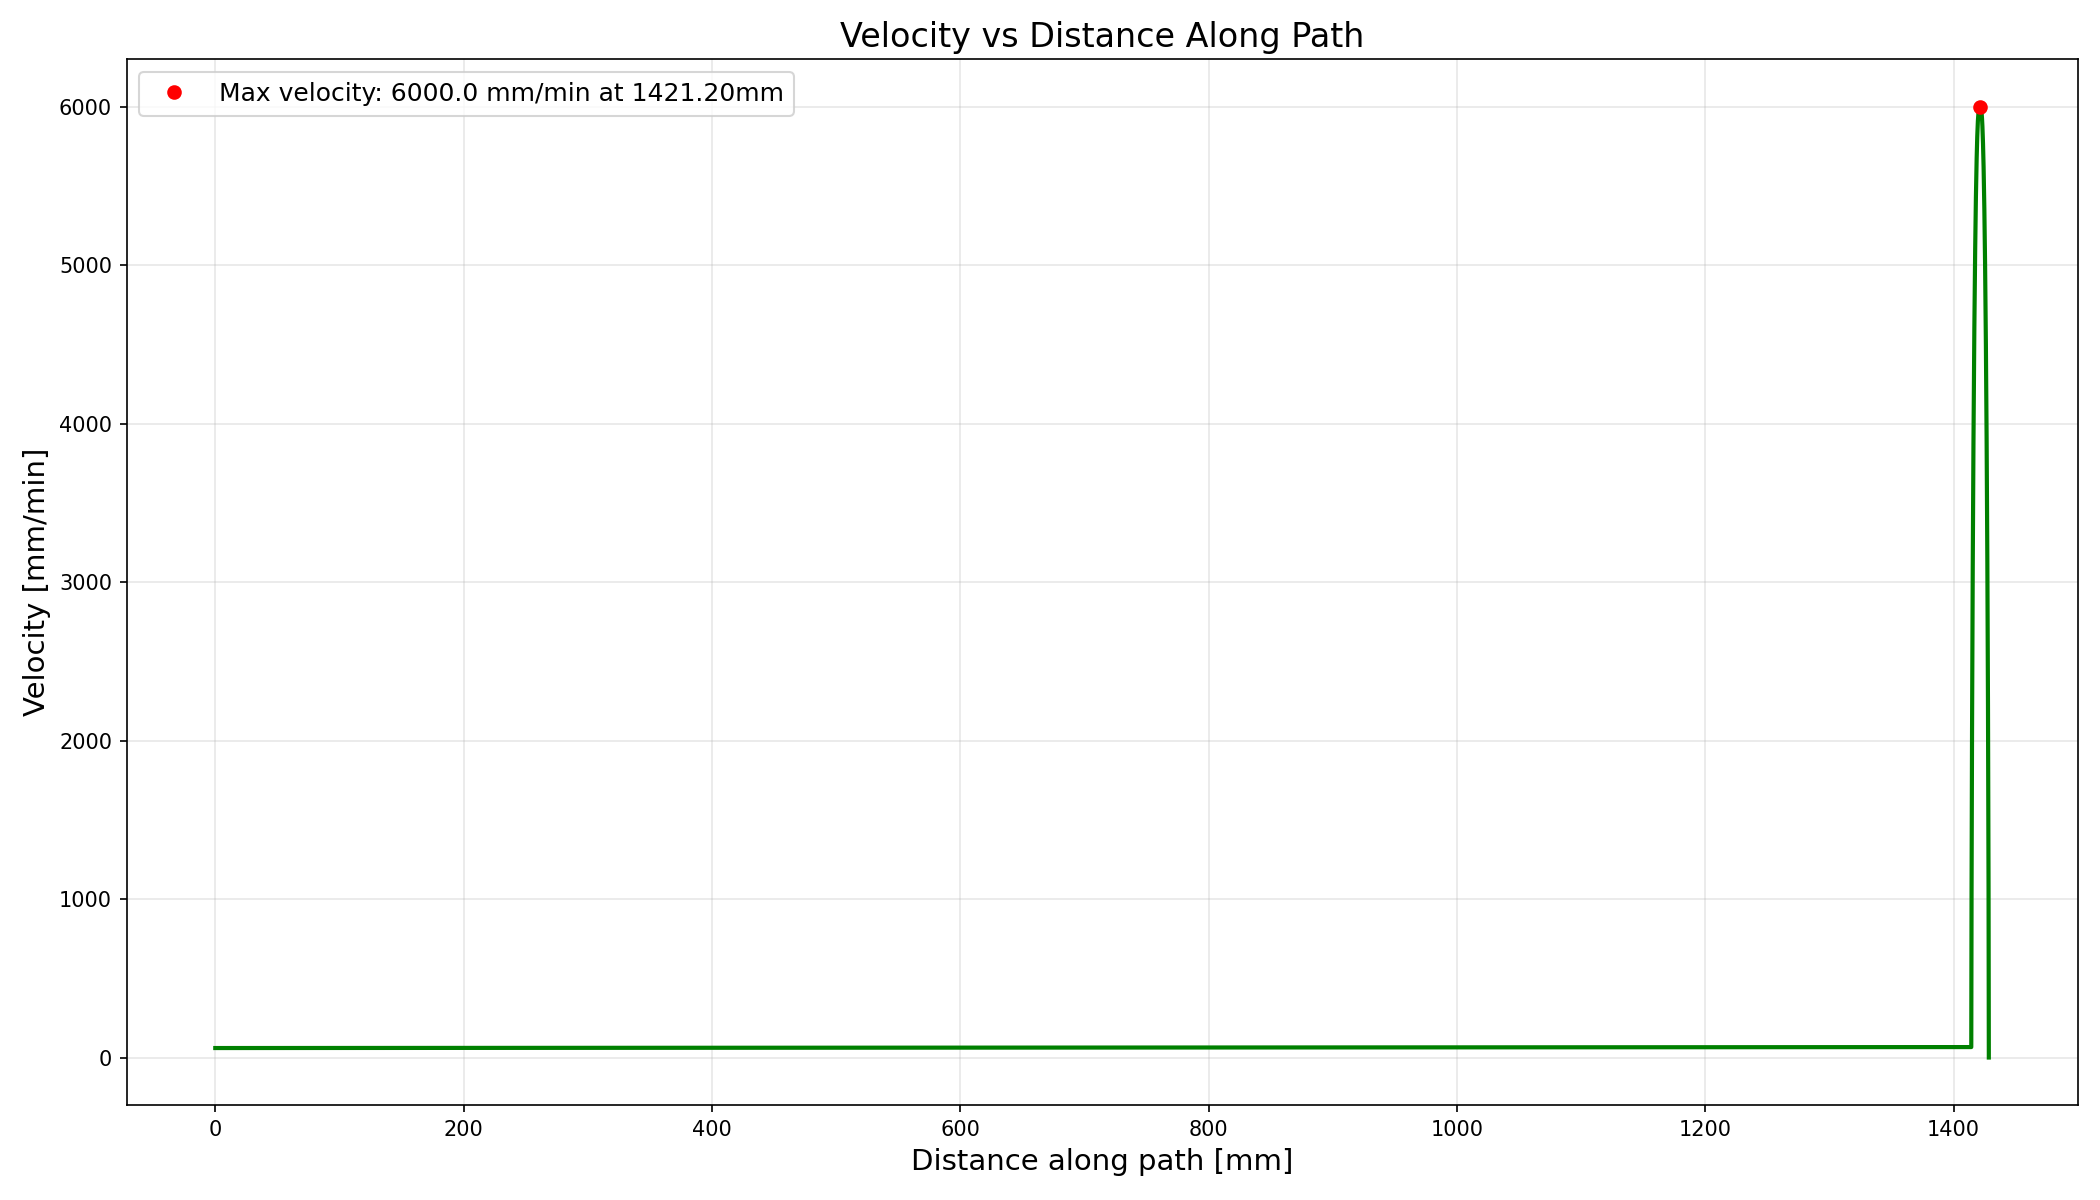
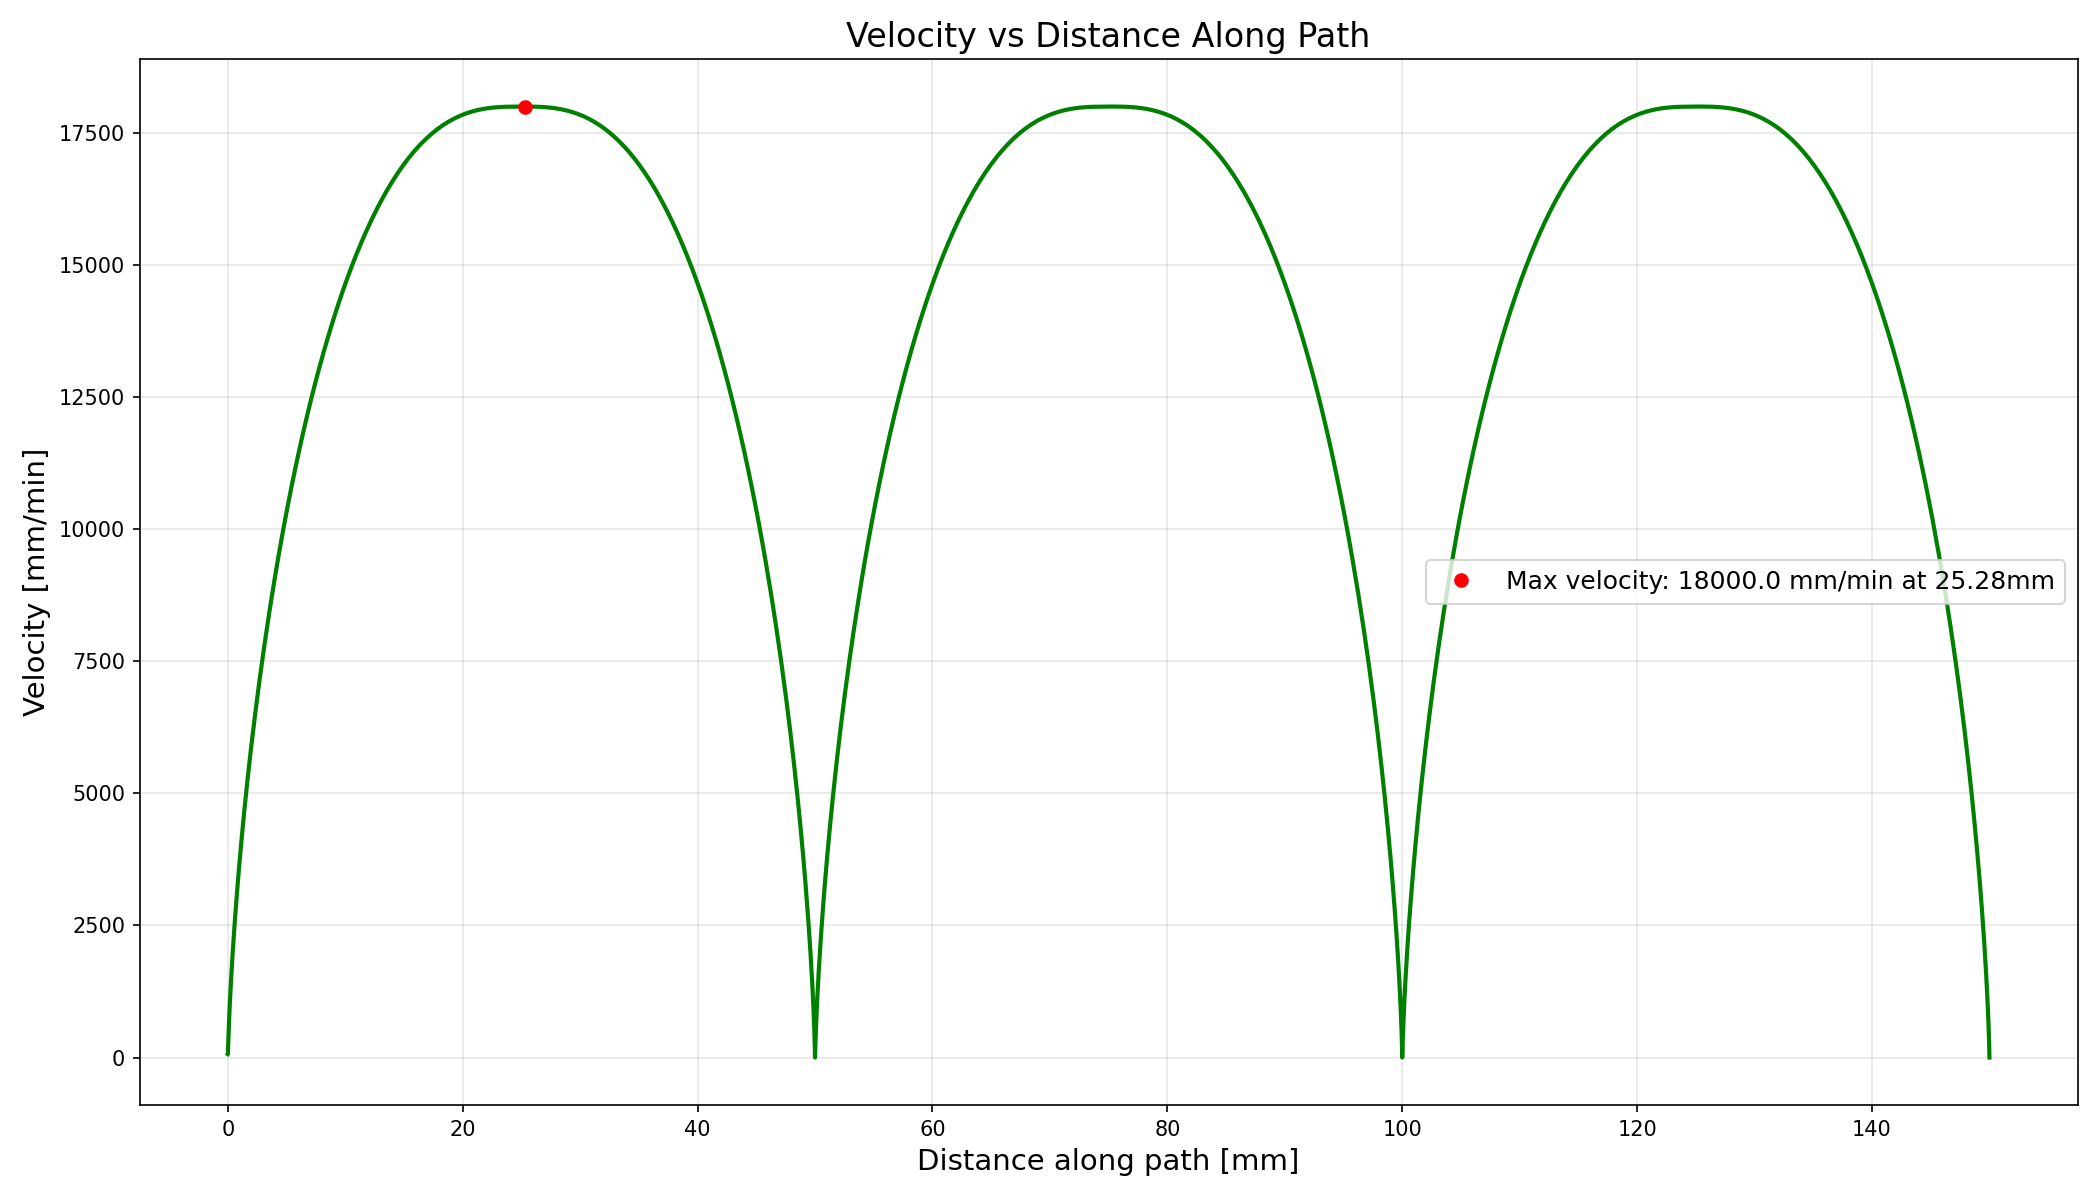
Some improvements

diff --git a/main/motion/motion_planner.c b/main/motion/motion_planner.c
@@ -24,6 +24,9 @@ mpBuf_t             bf = MPBUF_INIT();
 // Предыдущий unit-вектор для расчета junction_velocity
 static float prev_unit[AXES] = {0.0f, 0.0f};
 
+static void _calc_move_times(mpBuf_t *bf, const float axis_length[], const float axis_square[]);
+static float _get_junction_vmax(const float a_unit[], const float b_unit[]);
+
 void mp_init(void) 
 {
     memset(&mm, 0, sizeof(mm));
@@ -44,77 +47,16 @@ void mp_init(void)
     ESP_LOGI(TAG, "Motion controller initialized");
 }
 
-static void _calc_move_times(mpBuf_t *bf, const float axis_length[], const float axis_square[]) 
+bool is_zero_move(float target_x, float target_y, const float* current_x, const float* current_y) 
 {
-    float xyz_time = 0;
-    float max_time = 0;
-    float tmp_time;
+    float cx = (current_x != NULL) ? *current_x : mm.position[0];
+    float cy = (current_y != NULL) ? *current_y : mm.position[1];
     
-    bf->gm.minimum_time = 8675309.0f; // большое число
+    float dx = target_x - cx;
+    float dy = target_y - cy;
+    float distance = sqrtf(dx*dx + dy*dy);
     
-    // Время по feedrate (для линейного движения)
-    float length = bf->length;
-    if (length > 0) 
-    {
-        xyz_time = length / bf->gm.feed_rate; // время в минутах
-    }
-    
-    for (int axis = 0; axis < AXES; axis++) 
-    {
-        if (fabs(axis_length[axis]) > 0) 
-        {
-            // Используем feed_rate как максимальную скорость для расчета времени
-            tmp_time = fabs(axis_length[axis]) / bf->gm.feed_rate;
-            max_time = max(max_time, tmp_time);
-            bf->gm.minimum_time = min(bf->gm.minimum_time, tmp_time);
-        }
-    }
-    
-    bf->gm.move_time = max(xyz_time, max_time);
-    
-    // Проверка на короткие движения (как в TinyG)
-    if (bf->gm.move_time < MIN_BLOCK_TIME) 
-    {
-        float delta_velocity = powf(length, 0.66666666f) * mm.cbrt_jerk;
-        float entry_velocity = 0.0f;
-        // Для первого движения entry_velocity = 0
-        float move_time = (2.0f * length) / (2.0f * entry_velocity + delta_velocity);
-        if (move_time < MIN_BLOCK_TIME) 
-        {
-            // Слишком короткое движение — пропускаем
-            bf->gm.move_time = MIN_BLOCK_TIME;
-        } 
-        else 
-        {
-            bf->gm.move_time = move_time;
-        }
-    }
-}
-
-// --------------------------------------------------------------------------
-// _get_junction_vmax() - расчет максимальной скорости на стыке
-// --------------------------------------------------------------------------
-static float _get_junction_vmax(const float a_unit[], const float b_unit[]) 
-{
-    float costheta = 0;
-    for (int i = 0; i < AXES; i++) {
-        costheta -= a_unit[i] * b_unit[i];
-    }
-    
-    if (costheta < -0.99f) return 10000000.0f; // прямая линия
-    if (costheta > 0.99f) return 0.0f;         // разворот
-    
-    float a_delta = 0, b_delta = 0;
-    for (int i = 0; i < AXES; i++) {
-        a_delta += square(a_unit[i] * axis_params[i].junction_dev);
-        b_delta += square(b_unit[i] * axis_params[i].junction_dev);
-    }
-    
-    float delta = (sqrtf(a_delta) + sqrtf(b_delta)) / 2.0f;
-    float sintheta_over2 = sqrtf((1.0f - costheta) / 2.0f);
-    float radius = delta * sintheta_over2 / (1.0f - sintheta_over2);
-    float velocity = sqrtf(radius * 100.0f); // junction_acceleration = 100 mm/s²
-    return velocity;
+    return (fabs(distance) < EPSILON);
 }
 
 // --------------------------------------------------------------------------
@@ -130,6 +72,16 @@ bool mp_aline(float target_x, float target_y, float feed_rate)
     {
         ESP_LOGW(TAG, "Planner busy, cannot start new move");
         return false;
+    }
+
+    if (is_zero_move_default(target_x, target_y)) 
+    {
+        ESP_LOGW(TAG, "Zero length move to (%.2f, %.2f) - skipping", target_x, target_y);
+
+        mm.position[0] = target_x;
+        mm.position[1] = target_y;
+
+        return true; // Возвращаем true, так как уже в этой позиции
     }
 
     // Очищаем буфер
@@ -278,6 +230,78 @@ bool mp_aline(float target_x, float target_y, float feed_rate)
     start_motion_timer();
     
     return true;
+}
+
+static void _calc_move_times(mpBuf_t *bf, const float axis_length[], const float axis_square[]) 
+{
+    float xyz_time = 0;
+    float max_time = 0;
+    float tmp_time;
+    
+    bf->gm.minimum_time = 8675309.0f; // <-большое число
+    
+    // Время по feedrate (для линейного движения)
+    float length = bf->length;
+    if (length > 0) 
+    {
+        xyz_time = length / bf->gm.feed_rate; // время в минутах
+    }
+    
+    for (int axis = 0; axis < AXES; axis++) 
+    {
+        if (fabs(axis_length[axis]) > 0) 
+        {
+            // Используем feed_rate как максимальную скорость для расчета времени
+            tmp_time = fabs(axis_length[axis]) / bf->gm.feed_rate;
+            max_time = max(max_time, tmp_time);
+            bf->gm.minimum_time = min(bf->gm.minimum_time, tmp_time);
+        }
+    }
+    
+    bf->gm.move_time = max(xyz_time, max_time);
+    
+    // Проверка на короткие движения
+    if (bf->gm.move_time < MIN_BLOCK_TIME) 
+    {
+        float delta_velocity = powf(length, 0.66666666f) * mm.cbrt_jerk;
+        float entry_velocity = 0.0f;
+        // Для первого движения entry_velocity = 0
+        float move_time = (2.0f * length) / (2.0f * entry_velocity + delta_velocity);
+        if (move_time < MIN_BLOCK_TIME) 
+        {
+            // Слишком короткое движение — пропускаем
+            bf->gm.move_time = MIN_BLOCK_TIME;
+        } 
+        else 
+        {
+            bf->gm.move_time = move_time;
+        }
+    }
+}
+
+static float _get_junction_vmax(const float a_unit[], const float b_unit[]) 
+{
+    float costheta = 0;
+    for (int i = 0; i < AXES; i++) 
+    {
+        costheta -= a_unit[i] * b_unit[i];
+    }
+    
+    if (costheta < -0.99f) return 10000000.0f; // прямая линия
+    if (costheta > 0.99f) return 0.0f;         // разворот
+    
+    float a_delta = 0, b_delta = 0;
+    for (int i = 0; i < AXES; i++) 
+    {
+        a_delta += square(a_unit[i] * axis_params[i].junction_dev);
+        b_delta += square(b_unit[i] * axis_params[i].junction_dev);
+    }
+    
+    float delta = (sqrtf(a_delta) + sqrtf(b_delta)) / 2.0f;
+    float sintheta_over2 = sqrtf((1.0f - costheta) / 2.0f);
+    float radius = delta * sintheta_over2 / (1.0f - sintheta_over2);
+    float velocity = sqrtf(radius * 100.0f); // junction_acceleration = 100 mm/s²
+    return velocity;
 }
 
 void mp_test_circle(void) 

diff --git a/main/motion/motion.h b/main/motion/motion.h
@@ -262,6 +262,22 @@ const char* block_state_to_str(blockState_t state);
 const char* section_to_str(moveSection_t section); 
 const char* section_state_to_str(sectionState_t state);
 
+/**
+ * @brief Проверяет, является ли перемещение нулевым
+ * @param target_x Целевая X координата
+ * @param target_y Целевая Y координата
+ * @param current_x Текущая X координата (опционально, если NULL - использует mm.position)
+ * @param current_y Текущая Y координата (опционально, если NULL - использует mm.position)
+ * @param tolerance Допуск в мм (по умолчанию 0.001)
+ * @return true если перемещение нулевое (в пределах допуска)
+ */
+bool is_zero_move(float target_x, float target_y, const float* current_x, const float* current_y);
+
+static inline bool is_zero_move_default(float target_x, float target_y) 
+{
+    return is_zero_move(target_x, target_y, NULL, NULL);
+}
+
 #ifdef __cplusplus
 }
 #endif

diff --git a/main/app_tasks.c b/main/app_tasks.c
@@ -111,17 +111,19 @@ void planner_task(void *arg)
             if (mr.block_state != BLOCK_RUNNING) 
             {
                 grbl_queue_pop(&cmd_queue, &cmd);
+
+                if(is_zero_move_default(cmd.target_x, cmd.target_y)) 
+                { 
+                    continue; 
+                }
                 
-                // Выполняем
                 if (mp_aline(cmd.target_x, cmd.target_y, cmd.speed)) 
                 {
                     ESP_LOGI(TAG, "Planner: move started to (%.2f, %.2f, %.2f)", 
                              cmd.target_x, cmd.target_y, cmd.speed);
-                }
-                else
-                {
+                }  
+                else 
                     ESP_LOGE(TAG, "Planner: move failed");
-                }
             }
             else
             {

diff --git a/main/motion/motion_execution.c b/main/motion/motion_execution.c
@@ -10,8 +10,7 @@ static const char *TAG = "MOT_EXECUTE";
 static inline void log_promt()
 {
     ESP_LOGI(TAG, "MOVE START");
-    ESP_LOGI(TAG, "pos_x_mm:pos_y_mm:curr_vel:T_ms:dt_ms");
-    ESP_LOGI(TAG, "1000:1000:60:1000:1000");
+    ESP_LOGI(TAG, "pos_x_mm:pos_y_mm:vel_mm_min:T_ms:dt_ms");
 }
 
 static inline void log_out(int T_ms, int dt_ms)
@@ -84,9 +83,7 @@ stat_t mp_exec_aline(mpBuf_t *bf)
     
     if (mr.block_state == BLOCK_IDLE) 
     {
-        ESP_LOGI(TAG, "MOVE START");
-        ESP_LOGI(TAG, "pos_x_mm:pos_y_mm:curr_vel:T_ms:dt_ms");
-        ESP_LOGI(TAG, "1000:1000:60:1000:1000");
+        log_promt();
 
         bf->replannable = false;
         bf->block_state = BLOCK_RUNNING;
@@ -142,6 +139,8 @@ stat_t mp_exec_aline(mpBuf_t *bf)
         mr.section_state = SECTION_OFF;
         mr.block_state = BLOCK_IDLE;
         bf->block_state = BLOCK_IDLE;
+
+        copy_vector(mm.position, mr.position);
 
         stop_motion_timer();
 

diff --git a/send_triangle.py b/send_triangle.py
@@ -23,7 +23,7 @@ def send_triangle():
     
     # Параметры треугольника
     size = 50  # размер в мм
-    feedrate = 100  # скорость в мм/мин
+    feedrate = 300  # скорость в мм/мин
     
     # Координаты вершин треугольника (равносторонний)
     # Вершина 1: (0, 0)
@@ -47,7 +47,7 @@ def send_triangle():
     send_command(sock, "G21")  # Единицы в мм
     
     # Движение по треугольнику
-    #send_command(sock, f"G1 X{x1:.1f} Y{y1:.1f} F{feedrate}")  # Начальная точка
+    send_command(sock, f"G1 X{x1:.1f} Y{y1:.1f} F{feedrate}")  # Начальная точка
     send_command(sock, f"G1 X{x2:.1f} Y{y2:.1f} F{feedrate}")  # Первая линия
     send_command(sock, f"G1 X{x3:.1f} Y{y3:.1f} F{feedrate}")  # Вторая линия
     send_command(sock, f"G1 X{x1:.1f} Y{y1:.1f} F{feedrate}")  # Третья линия (замыкаем)